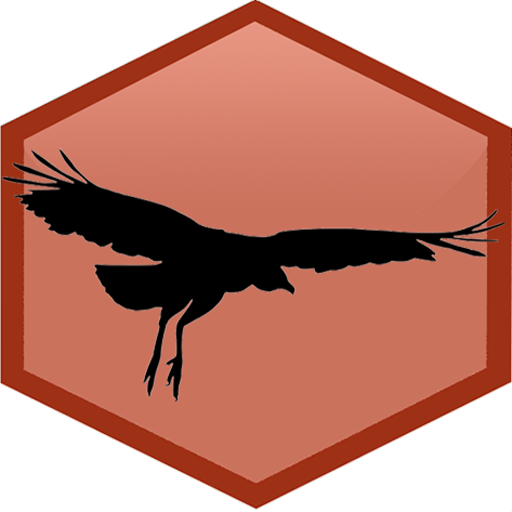
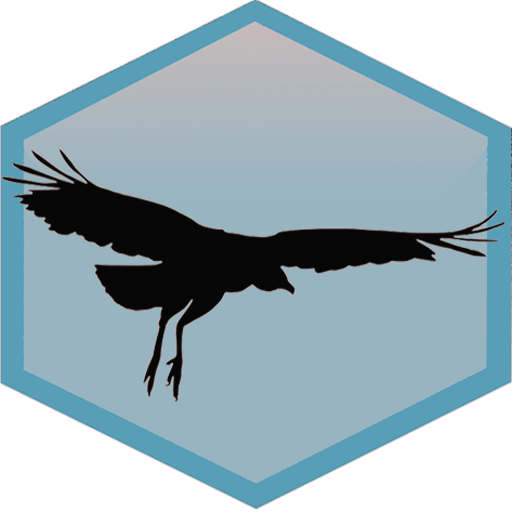
Awi_Theme

diff --git a/layouts/partials/site_footer.html b/layouts/partials/site_footer.html
@@ -3,7 +3,7 @@
   <p class="powered-by">
     {{ with site.Copyright }}{{ replace . "{year}" now.Year | markdownify}} <br> {{ end }}
 
-    Made with <a href="https://github.com/slisovski/Simeon_Website" target="_blank" rel="noopener"><i class="fas fa-code-branch" style="color:#E13D3D"></i></a>, the <a href="https://cran.r-project.org/" target="_blank" rel="noopener"><i class="fab fa-r-project"></i> </a><a href="https://github.com/rstudio/blogdown" target="_blank" rel="noopener">blogdown</a> package, and the 
+    Made with <a href="https://github.com/slisovski/Simeon_Website2019" target="_blank" rel="noopener"><i class="fas fa-code-branch" style="color:#5DB2FF"></i></a>, the <a href="https://cran.r-project.org/" target="_blank" rel="noopener"><i class="fab fa-r-project"></i> </a><a href="https://github.com/rstudio/blogdown" target="_blank" rel="noopener">blogdown</a> package, and the 
     <a href="https://sourcethemes.com/academic/" target="_blank" rel="noopener">Academic theme</a> for
     <a href="https://gohugo.io" target="_blank" rel="noopener">Hugo</a>.
 

diff --git a/assets/css/sl_about.css b/assets/css/sl_about.css
@@ -29,7 +29,7 @@
 }
 
 #sl-moved-social-icons .social-icon li:hover {
-  transform: scale(1.2)
+  transform: scale(1.3)
 }
 
 #sl-moved-social-icons a{
@@ -37,5 +37,5 @@
 }
 
 #sl-moved-social-icons a:hover{
-  color: #CB4335;
+  color: #5DB2FF;
 }

diff --git a/assets/css/layout.css b/assets/css/layout.css
@@ -13,7 +13,6 @@
 }
 
 
-
 /* dark fixes */
 .dark .pagination li > a, .pagination li > span {
 	border: 1px solid #e13d3d;
@@ -26,7 +25,7 @@
 .dark a:active, 
 .dark a:focus, 
 .dark a:hover {
-	color: #fff;
+	color: #5DB2FF;
 }
 
 

diff --git a/content/publication/Lisovski_et_al_2019-JOrn.md b/content/publication/Lisovski_et_al_2019-JOrn.md
@@ -11,14 +11,14 @@ title = "Migration pattern of Gambel’s White‑crowned Sparrow along the Pacif
 date = "2019-08-01"
 authors = ["[Simeon Lisovski](hhttps://slisovski.netlify.com/)", "Zoltán Németh", "John C. Wingfeld", "Jesse S. Krause", "Keith A. Hobson", "Nathaniel E. Seavy", "Jennifer Gee", "Marilyn Ramenofsky"]
 publication_types = ["2"]
-publication = "*Lisovski S, Németh Z, Wingfield JC, Krause JS, Hobson KA, Seavy NS, ... and M Ramenofsky (2019). Migration pattern of Gambel’s White‑crowned Sparrow along the Pacifc Flyway. _Journal for Ornithology_,  1-11. "
+publication = "**Lisovski S**, Németh Z, Wingfield JC, Krause JS, Hobson KA, Seavy NS, ... and M Ramenofsky (2019). Migration pattern of Gambel’s White‑crowned Sparrow along the Pacifc Flyway. _Journal for Ornithology_,  1-11. "
 publication_short = "_Polar Biology_"
 image_preview = ""
 selected = false
 projects = []
 math = true
 highlight = false
-abstract= "The light-mantled sooty albatross is a mediumsized albatross with a circumpolar distribution in the Southern Ocean. The known breeding sites are restricted to Islands in sub-Antarctic latitudes close to the Antarctic convergence between 46 and 53S. In the austral summer season 2008-2009 we discovered a new breeding colony with at least two confirmed and three probable nests at Fildes Peninsula, King George Island, South Shetland Islands, Antarctica (62,12S, 59,01W). The new breeding colony of lightmantled sooty albatross described here represents the southernmost breeding place of any albatross species ever recorded."
+abstract= "White-crowned Sparrow (*Zonotrichia leucophrys*) populations of western North America exhibit dramatic diferences in life history strategies including migration behavior. However, individual migration strategies and population-level migratory patterns remain largely unknown for this species. Here, we focused on the long-distance migratory subspecies, Gambel’s White-crowned Sparrow (*Zonotrichia leucophrys gambelii*). We used ringing, tracking and stable hydrogen isotope (δ2 H) analysis of individuals migrating along the Pacifc Flyway to assess individual phenology and routes as well as the pattern of connectivity between breeding and non-breeding sites. Results from all three methods, consisting of 79 ring recoveries, four light level geolocator tracks and 388 feather δ2 H values, indicate low degrees of migratory connectivity. The isotope data provide evidence for leapfrog migration with the more southerly populations traveling greater distances to the breeding grounds than more centrally wintering individuals. Location estimates of four annual journeys revealed individually consistent migration strategies with relatively short fight bouts separated by two to three and two to six stopover sites during spring and autumn migration, respectively. However, combined results from all methods indicate high variability in migration distance among individuals. These fndings confrm the phenotypic fexibility observed within this species and highlight the potential of White-crowned Sparrows for further investigations of evolutionary adaptations to ongoing changes in the environment."
   
 # Links (optional).
 url_pdf = "papers/Lisovski_et_al-2009-PolBiol.pdf"

diff --git a/content/authors/simeon/_index.md b/content/authors/simeon/_index.md
@@ -9,7 +9,7 @@ interests:
 name: Simeon Lisovski
 organizations:
 - name: Alfred-Wegener-Institute for Polar and Marine Research
-  url: https://www.awi.de.ch
+  url: https://www.awi.de
 role: Geo.X Young Academy Research Fellow
 social:
 - icon: paper-plane
@@ -33,6 +33,6 @@ social:
 superuser: true
 ---
 
-My major research interests are the migration of animals and factors that determine their routes, timing and ultimately the faith of individuals and their populations. I’m particularly interested in combining theoretical, experimental and observational studies to asses the consequences of global change on avian migrants and their communities. Furthermore, I study the impacts of pathogens on migratory birds and how infections may affect their strategies as well as their capacity to spread e.g. viruses across large distances.
+My major research interests are the migration of animals and factors that determine their routes, timing and ultimately the faith of individuals and their populations. I’m particularly interested in combining theoretical, experimental and observational studies to asses the consequences of pathogens and global change on avian migrants and their communities.
 
-As a Geo.X Young Academy Research Fellow and a Postdoc at the Alfred-Wegener-Institut for Polar and Marine Research, I am looking at various, mostly remote sensed, data sources to extract indices of seasonal dynamics of the environment and quantify changes therein across the globe. In parallel, I aim to setup a field research project in the Lena Delta (Siberia) to validate the results and quantify the consequenses of phenological changes for Arctic ecosystem structure and function.
+As a [Geo.X](https://www.geo-x.net/en/) Young Academy Research Fellow and a Postdoc at the Alfred-Wegener-Institut for Polar and Marine Research, I am working on topics related to seasonal dynamics and quantifications of changes across the globe. In parallel, I am starting a field campaign in eastern Siberia to validate the results and assess the consequenses of phenological changes for Arctic ecosystem structure and function.

diff --git a/content/home/CV.md b/content/home/CV.md
@@ -23,8 +23,7 @@ group_logo = "cv.svg"
   interests = [
     "Bird Migration",
     "Global Change Biology",
-    "Disease Ecology",
-    "Seasonality"
+    "Disease Ecology"
   ]
 
 # List your qualifications (such as academic degrees).
@@ -56,16 +55,12 @@ group_logo = "cv.svg"
 # List your academic interests.
 # [service]
 #   service = [
-#     "Open House Committee (chair)",
-#     "Website Committee (chair)",
-#     "Graduate Diversity Committee",
-#     "[Graduate Student Mentor](https://gradmentors.ucr.edu)",
 #     "[Reviewer](https://publons.com/author/637273/)"
 #   ]
 
 +++
 
-> Geo.X Young Academy Research Fellow and Postdoc at AIW, since 2020
-> Postdoc at Swiss Ornithological Institute, 2017 - 2019  
-> Postdoc at University of California Davis, 2016 - 20178  
-> Postdoc at Deakin University, 2015 - 2016
+- Alfred-Wegener-Institute, since 2020
+- Swiss Ornithological Institute, 2017 - 2019  
+- University of California Davis, 2016 - 20178  
+- Deakin University, 2015 - 2016
